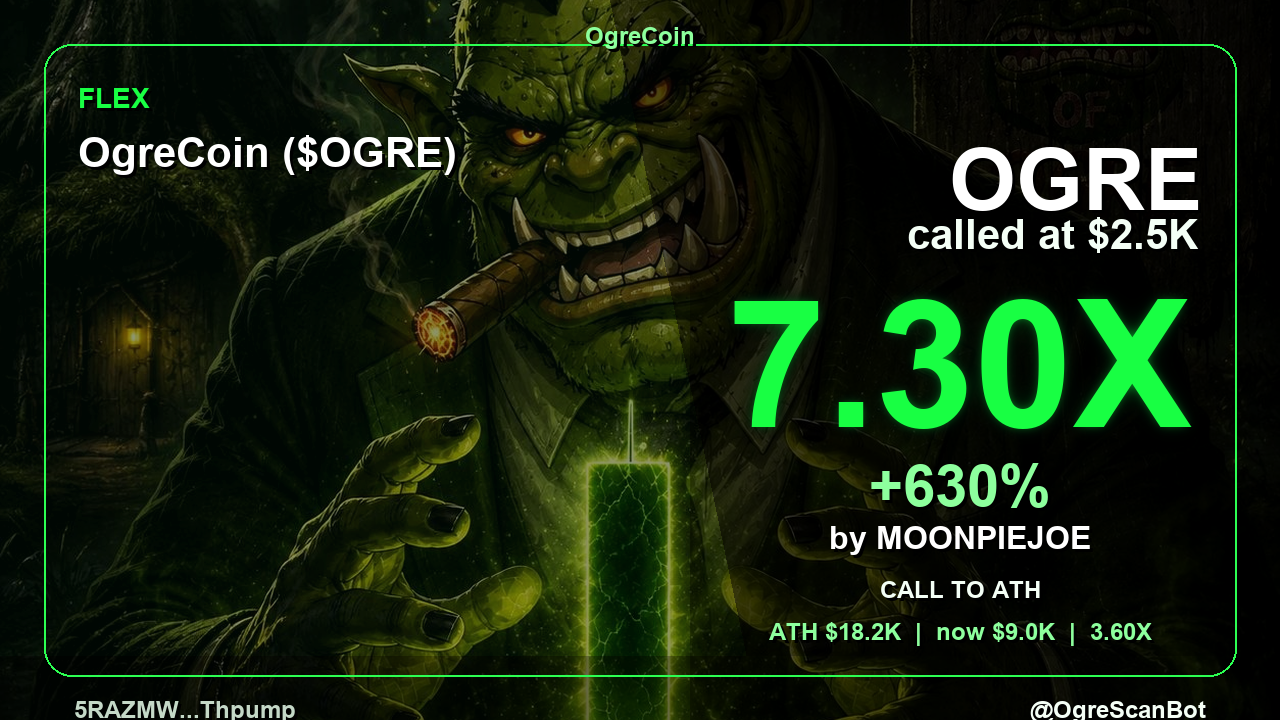
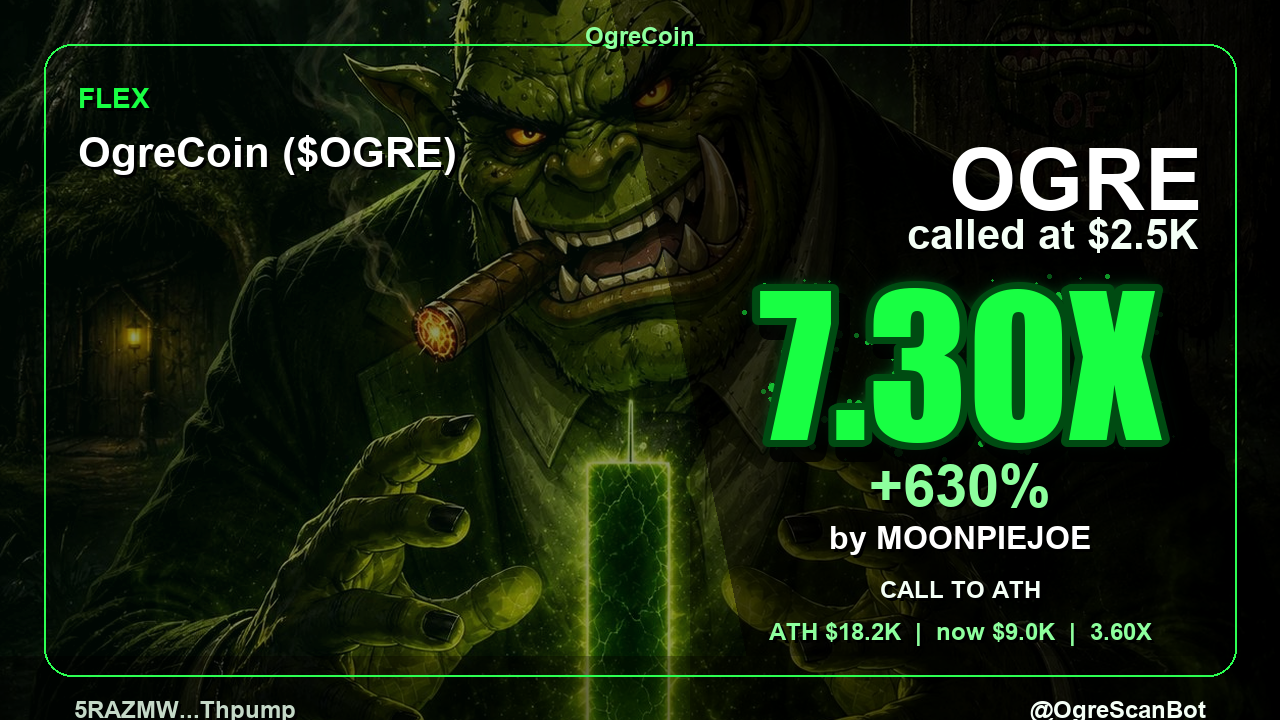
h

Changed region(s): [[0.5625, 0.3667, 0.9375, 0.6417]]

diff --git a/ogrescanbot/images.py b/ogrescanbot/images.py
@@ -2,6 +2,7 @@ from __future__ import annotations
 
 from io import BytesIO
 from pathlib import Path
+import random
 from typing import TYPE_CHECKING
 
 from PIL import Image, ImageDraw, ImageEnhance, ImageFilter, ImageFont, UnidentifiedImageError
@@ -28,7 +29,7 @@ def build_pnl_card(token: TokenScan, call: CallRecord, title: str = "PNL") -> By
     glow_dark = "#004b12" if metrics["positive"] else "#4b0000"
     glow_mid = "#0b9f2d" if metrics["positive"] else "#b31818"
 
-    font_result = _font(178 if len(headline) <= 6 else 152, bold=True)
+    font_result = _headline_font(188 if len(headline) <= 6 else 162)
     font_percent = _font(58, bold=True)
     font_brand = _font(86, bold=True)
     font_label = _font(28, bold=True)
@@ -54,7 +55,7 @@ def build_pnl_card(token: TokenScan, call: CallRecord, title: str = "PNL") -> By
     _shadow_text(draw, (width - 78, 132), "OGRE", font=font_brand, fill="#ffffff", anchor="ra")
     _shadow_text(draw, (width - 82, 210), f"called at {money(call.initial_cap)}", font=font_mid, fill="#f4fff6", anchor="ra")
 
-    _glow_text(
+    _spray_text(
         image,
         (960, 365),
         headline,
@@ -246,6 +247,71 @@ def _glow_text(
     draw.text((x, y), text, fill=fill, font=font, anchor="mm")
 
 
+def _spray_text(
+    image: Image.Image,
+    xy: tuple[int, int],
+    text: str,
+    font: ImageFont.ImageFont,
+    fill: str,
+    glow_dark: str,
+    glow_mid: str,
+) -> None:
+    x, y = xy
+    seed = sum((index + 1) * ord(char) for index, char in enumerate(text)) + x * 17 + y * 31
+    rng = random.Random(seed)
+
+    mask = Image.new("L", image.size, 0)
+    mask_draw = ImageDraw.Draw(mask)
+    mask_draw.text((x, y), text, fill=255, font=font, anchor="mm", stroke_width=7, stroke_fill=255)
+    bbox = mask.getbbox()
+    if not bbox:
+        return
+
+    for radius, color in [(14, glow_dark), (7, glow_mid)]:
+        glow = Image.new("RGBA", image.size, (0, 0, 0, 0))
+        glow.putalpha(mask.filter(ImageFilter.GaussianBlur(radius)))
+        glow_color = Image.new("RGBA", image.size, _hex_rgba(color, 180))
+        image.alpha_composite(Image.composite(glow_color, Image.new("RGBA", image.size, (0, 0, 0, 0)), glow.split()[-1]))
+
+    spray = Image.new("RGBA", image.size, (0, 0, 0, 0))
+    spray_draw = ImageDraw.Draw(spray, "RGBA")
+    spray_mask = mask.filter(ImageFilter.GaussianBlur(8))
+    left, top, right, bottom = bbox
+    for _ in range(520):
+        px = rng.randint(max(0, left - 42), min(image.width - 1, right + 42))
+        py = rng.randint(max(0, top - 34), min(image.height - 1, bottom + 34))
+        strength = spray_mask.getpixel((px, py))
+        if strength <= rng.randint(8, 170):
+            continue
+        dot = rng.choice([1, 1, 1, 2, 2, 3, 4])
+        alpha = rng.randint(70, 195)
+        spray_draw.ellipse((px - dot, py - dot, px + dot, py + dot), fill=_hex_rgba(fill, alpha))
+    image.alpha_composite(spray)
+
+    text_layer = Image.new("RGBA", image.size, (0, 0, 0, 0))
+    text_draw = ImageDraw.Draw(text_layer)
+    text_draw.text(
+        (x + 9, y + 12),
+        text,
+        fill=(0, 0, 0, 215),
+        font=font,
+        anchor="mm",
+        stroke_width=10,
+        stroke_fill=(0, 0, 0, 210),
+    )
+    for ox, oy in [(-2, 1), (2, -1), (0, 0)]:
+        text_draw.text(
+            (x + ox, y + oy),
+            text,
+            fill=fill,
+            font=font,
+            anchor="mm",
+            stroke_width=6,
+            stroke_fill=glow_dark,
+        )
+    image.alpha_composite(text_layer)
+
+
 def money(value: float | None) -> str:
     if value is None:
         return "n/a"
@@ -263,6 +329,27 @@ def _shorten(text: str, limit: int) -> str:
     if len(clean) <= limit:
         return clean
     return f"{clean[: max(0, limit - 3)]}..."
+
+
+def _hex_rgba(color: str, alpha: int) -> tuple[int, int, int, int]:
+    value = color.lstrip("#")
+    if len(value) != 6:
+        return (255, 255, 255, alpha)
+    return (int(value[0:2], 16), int(value[2:4], 16), int(value[4:6], 16), alpha)
+
+
+def _headline_font(size: int) -> ImageFont.FreeTypeFont | ImageFont.ImageFont:
+    candidates = [
+        "C:/Windows/Fonts/impact.ttf",
+        "C:/Windows/Fonts/arialbd.ttf",
+        "C:/Windows/Fonts/segoeuib.ttf",
+    ]
+    for path in candidates:
+        try:
+            return ImageFont.truetype(path, size)
+        except OSError:
+            continue
+    return ImageFont.load_default()
 
 
 def _font(size: int, bold: bool = False) -> ImageFont.FreeTypeFont | ImageFont.ImageFont: